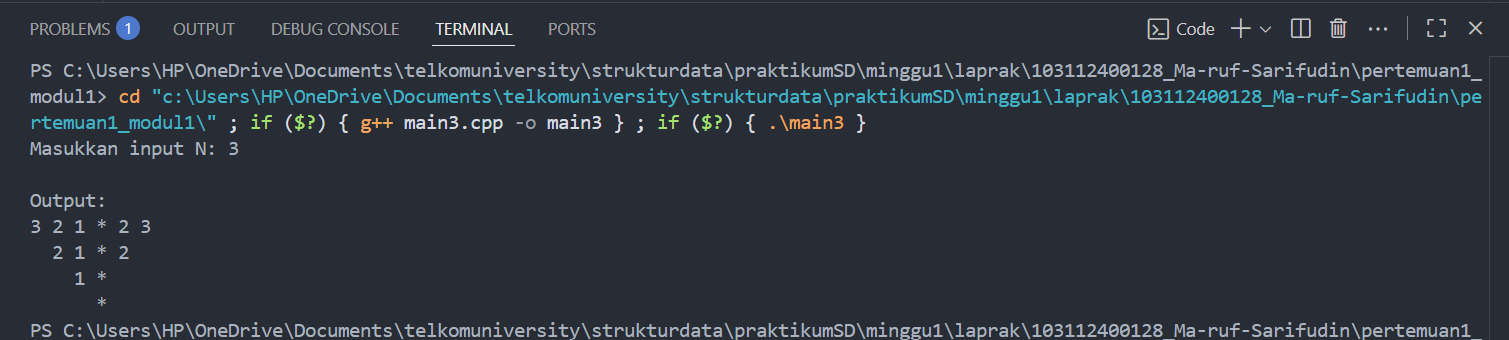
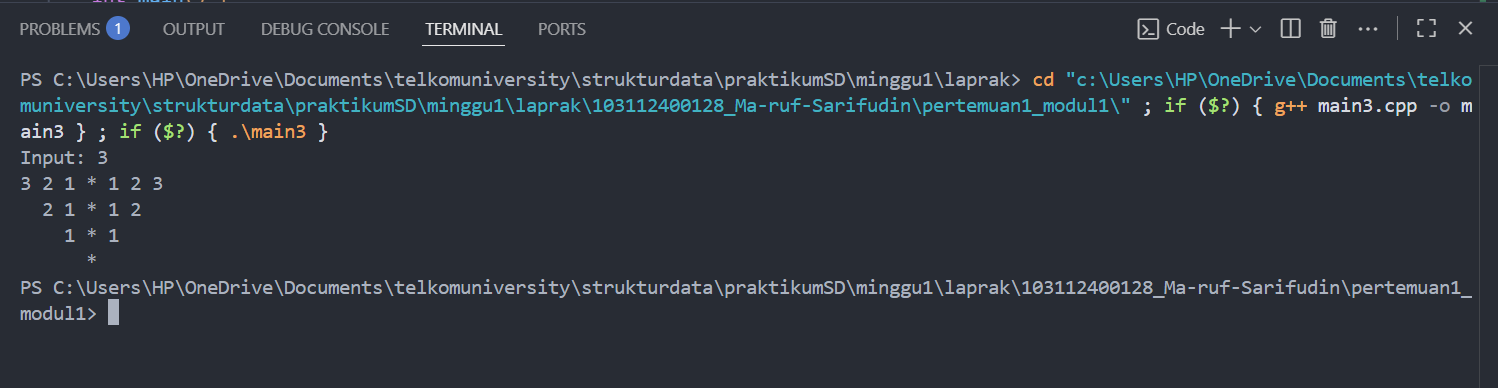
fix_modul1

diff --git a/pertemuan1_modul1/main3.cpp b/pertemuan1_modul1/main3.cpp
@@ -2,42 +2,37 @@
 using namespace std;
 
 int main() {
-    int N;
-    int i, j;
+    int n;
+    cout << "Input: ";
+    cin >> n;
 
-    cout << "Masukkan input N: ";
-    cin >> N;
+   
+    for (int i = n; i >= 1; i--) {
 
-    cout << "\nOutput:\n";
-    for (i = N; i >= 1; i--) {
-        
-       
-        for (j = 1; j <= N - i; j++) {
-            cout << "  ";
+        for (int s = 0; s < n - i; s++) {
+            cout << "  "; 
         }
 
-       
-        for (j = i; j >= 1; j--) {
+        
+        for (int j = i; j >= 1; j--) {
             cout << j << " ";
         }
-        
-        
-        cout << "*"; 
 
         
-        for (j = 2; j <= i; j++) {
-            cout << " " << j;
+        cout << "* ";
+
+       
+        for (int j = 1; j <= i; j++) {
+            cout << j << " ";
         }
-        
+
         cout << endl;
     }
 
-    
-    for (i = 1; i <= N; i++) {
+  
+    for (int s = 0; s < n; s++) {
         cout << "  ";
     }
-    
-    
     cout << "*" << endl;
 
     return 0;

diff --git a/pertemuan1_modul1/Laprak_modul1.md b/pertemuan1_modul1/Laprak_modul1.md
@@ -216,46 +216,42 @@ output:
 using namespace std;
 
 int main() {
-    int N;
-    int i, j;
+    int n;
+    cout << "Input: ";
+    cin >> n;
 
-    cout << "Masukkan input N: ";
-    cin >> N;
+   
+    for (int i = n; i >= 1; i--) {
 
-    cout << "\nOutput:\n";
-    for (i = N; i >= 1; i--) {
-        
-       
-        for (j = 1; j <= N - i; j++) {
-            cout << "  ";
+        for (int s = 0; s < n - i; s++) {
+            cout << "  "; 
         }
 
-       
-        for (j = i; j >= 1; j--) {
+        
+        for (int j = i; j >= 1; j--) {
             cout << j << " ";
         }
-        
-        
-        cout << "*"; 
 
         
-        for (j = 2; j <= i; j++) {
-            cout << " " << j;
+        cout << "* ";
+
+       
+        for (int j = 1; j <= i; j++) {
+            cout << j << " ";
         }
-        
+
         cout << endl;
     }
 
-    
-    for (i = 1; i <= N; i++) {
+  
+    for (int s = 0; s < n; s++) {
         cout << "  ";
     }
-    
-    
     cout << "*" << endl;
 
     return 0;
 }
+
 ```
 ### Output Unguided 3 :
 
